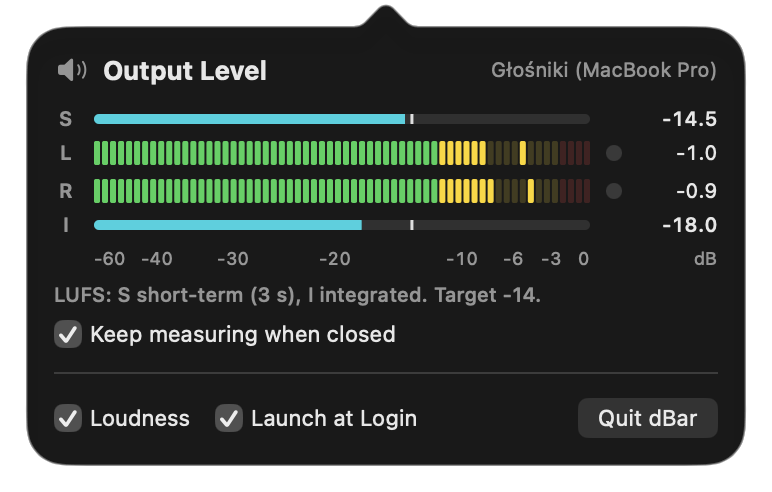
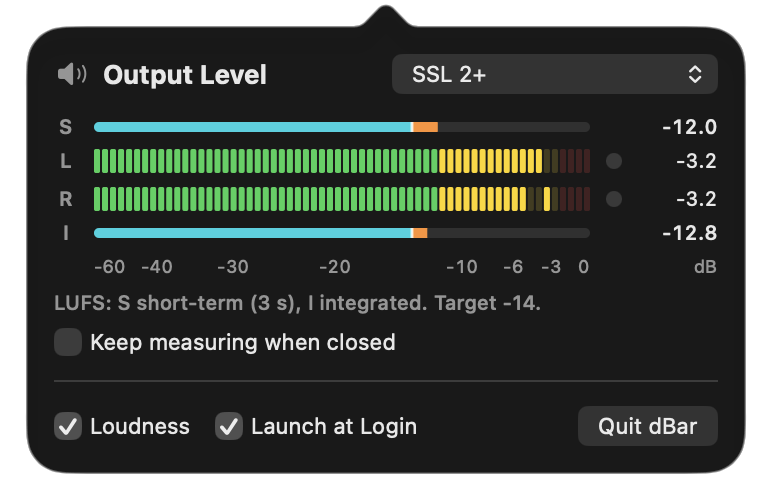
Add a measuring point menu: all apps or one output device
The header menu chooses between the mix of all apps (the default) and
the audio reaching one output device. A device is measured with a
device tap on its first output stream, with nothing excluded, so it
reads the signal after any app or helper that passes it along. On a
device with more than two channels the meter reads the first two. If
the chosen device isn't connected, the meter measures all apps and
says so.

Verified with a -20 dBFS tone played through ForceStereo to a
4-channel SSL 2+: reads -20.0 with the SSL 2+ chosen. The README
screenshot shows the new menu.

diff --git a/dBar/LevelMeterModel.swift b/dBar/LevelMeterModel.swift
@@ -34,8 +34,26 @@ final class LevelMeterModel {
 
     private(set) var channels = [Channel(), Channel()]
     private(set) var loudness = LoudnessReading()
-    private(set) var outputDeviceName: String?
     private(set) var errorMessage: String?
+
+    struct OutputDevice: Identifiable, Hashable {
+        let uid: String
+        let name: String
+        var id: String { uid }
+    }
+
+    /// Connected output devices the user can measure at.
+    private(set) var outputDevices: [OutputDevice] = []
+    /// UID of the device to measure at, or nil to measure the mix of all apps.
+    private(set) var sourceDeviceUID = UserDefaults.standard.string(forKey: Preferences.sourceDeviceUIDKey)
+    /// Name of the chosen device, kept so it can still be shown while it's disconnected.
+    private(set) var sourceDeviceName = UserDefaults.standard.string(forKey: Preferences.sourceDeviceNameKey)
+
+    /// The chosen device isn't connected, so the meter is measuring all apps instead.
+    var sourceDeviceIsMissing: Bool {
+        guard let sourceDeviceUID else { return false }
+        return !outputDevices.contains { $0.uid == sourceDeviceUID }
+    }
 
     @ObservationIgnored private let tap = SystemAudioTap()
     @ObservationIgnored private var loudnessMeter = LoudnessMeter()
@@ -45,18 +63,45 @@ final class LevelMeterModel {
 
     /// Starts capturing, or carries on if capture kept running while the meter was closed.
     func start() {
-        outputDeviceName = try? AudioObjectID.defaultOutputDevice().readString(kAudioObjectPropertyName)
+        refreshOutputDevices()
         guard timer == nil else { return }
-        do {
-            try tap.start()
-            errorMessage = nil
-        } catch {
-            errorMessage = error.localizedDescription
-            return
-        }
-
+        guard startTap() else { return }
         lastTick = CACurrentMediaTime()
         scheduleTimer()
+    }
+
+    /// Chooses where to measure: at one output device, or nil for the mix of all apps.
+    func selectSource(_ uid: String?) {
+        guard uid != sourceDeviceUID else { return }
+        sourceDeviceUID = uid
+        sourceDeviceName = outputDevices.first { $0.uid == uid }?.name
+        UserDefaults.standard.set(sourceDeviceUID, forKey: Preferences.sourceDeviceUIDKey)
+        UserDefaults.standard.set(sourceDeviceName, forKey: Preferences.sourceDeviceNameKey)
+
+        guard timer != nil || errorMessage != nil else { return }
+        // Readings from the old source don't carry over to the new one.
+        stop()
+        start()
+    }
+
+    private func startTap() -> Bool {
+        do {
+            try tap.start(deviceUID: sourceDeviceIsMissing ? nil : sourceDeviceUID)
+            errorMessage = nil
+            return true
+        } catch {
+            errorMessage = error.localizedDescription
+            return false
+        }
+    }
+
+    private func refreshOutputDevices() {
+        outputDevices = AudioObjectID.outputDevices().compactMap { device in
+            guard let uid = try? device.readString(kAudioDevicePropertyDeviceUID),
+                  let name = try? device.readString(kAudioObjectPropertyName)
+            else { return nil }
+            return OutputDevice(uid: uid, name: name)
+        }
     }
 
     /// While the meter is hidden, refresh just often enough to keep up with the 100 ms

diff --git a/dBar/MeterView.swift b/dBar/MeterView.swift
@@ -18,6 +18,13 @@ struct MeterView: View {
                     .fixedSize(horizontal: false, vertical: true)
             }
 
+            if model.sourceDeviceIsMissing {
+                Text("\(model.sourceDeviceName ?? "The chosen device") isn't connected. Measuring all apps.")
+                    .font(.caption)
+                    .foregroundStyle(.secondary)
+                    .fixedSize(horizontal: false, vertical: true)
+            }
+
             VStack(spacing: 6) {
                 if showsLoudness {
                     LoudnessRow(kind: .shortTerm, value: model.loudness.shortTerm, reset: model.resetPeaks)
@@ -59,15 +66,34 @@ struct MeterView: View {
             Text("Output Level")
                 .font(.headline)
             Spacer(minLength: 12)
-            if let outputDeviceName = model.outputDeviceName {
-                Text(outputDeviceName)
-                    .font(.caption)
-                    .foregroundStyle(.secondary)
-                    .lineLimit(1)
-                    .truncationMode(.middle)
-            }
+            sourcePicker
         }
     }
+
+    /// Where to measure: the mix of all apps, or the audio reaching one output device.
+    private var sourcePicker: some View {
+        let selection = Binding(
+            get: { model.sourceDeviceUID ?? Self.allAppsTag },
+            set: { model.selectSource($0 == Self.allAppsTag ? nil : $0) }
+        )
+        return Picker("Measure", selection: selection) {
+            Text("All apps").tag(Self.allAppsTag)
+            Divider()
+            ForEach(model.outputDevices) { device in
+                Text(device.name).tag(device.uid)
+            }
+            if model.sourceDeviceIsMissing, let uid = model.sourceDeviceUID {
+                Text("\(model.sourceDeviceName ?? "Device") (not connected)").tag(uid)
+            }
+        }
+        .labelsHidden()
+        .pickerStyle(.menu)
+        .controlSize(.small)
+        .fixedSize()
+        .help("What to measure: everything apps play, or the audio reaching one output device, after any apps that pass it along.")
+    }
+
+    private static let allAppsTag = ""
 
     private var footer: some View {
         VStack(alignment: .leading, spacing: 6) {

diff --git a/dBar/SystemAudioTap.swift b/dBar/SystemAudioTap.swift
@@ -17,10 +17,12 @@ final class SystemAudioTap {
 
     var isRunning: Bool { ioProcID != nil }
 
-    func start() throws {
+    /// Measures the mix of every app, or with a `deviceUID` only the audio headed for that
+    /// output device, whichever apps or helpers it passed through on the way.
+    func start(deviceUID: String? = nil) throws {
         guard !isRunning else { return }
         do {
-            let tap = try createTap()
+            let tap = try createTap(deviceUID: deviceUID)
             try createAggregateDevice(tapUID: tap.uid)
             try startIO(sampleRate: tap.sampleRate)
         } catch {
@@ -91,8 +93,16 @@ final class SystemAudioTap {
     }
 
     /// Returns the tap's UID and sample rate.
-    private func createTap() throws -> (uid: String, sampleRate: Double) {
-        let description = CATapDescription(stereoGlobalTapButExcludeProcesses: Self.replayingProcesses())
+    private func createTap(deviceUID: String?) throws -> (uid: String, sampleRate: Double) {
+        let description: CATapDescription
+        if let deviceUID {
+            // Everything playing to the device's first output stream. Nothing is excluded: a
+            // replaying app's output is exactly what reaches the device. The tap has the
+            // stream's channel count, and the meter reads its first two channels.
+            description = CATapDescription(excludingProcesses: [], deviceUID: deviceUID, stream: 0)
+        } else {
+            description = CATapDescription(stereoGlobalTapButExcludeProcesses: Self.replayingProcesses())
+        }
         description.name = "dBar Output Meter"
         description.isPrivate = true
         try AudioHardwareCreateProcessTap(description, &tapID).check("Creating the system audio tap")

diff --git a/dBar/CoreAudioUtils.swift b/dBar/CoreAudioUtils.swift
@@ -27,8 +27,13 @@ extension AudioObjectID {
     static let unknown = AudioObjectID(kAudioObjectUnknown)
     static let system = AudioObjectID(kAudioObjectSystemObject)
 
-    static func defaultOutputDevice() throws -> AudioDeviceID {
-        try system.read(kAudioHardwarePropertyDefaultOutputDevice, defaultValue: AudioDeviceID.unknown)
+    /// Devices that have at least one output stream.
+    static func outputDevices() -> [AudioDeviceID] {
+        let devices = (try? system.readObjectList(kAudioHardwarePropertyDevices)) ?? []
+        return devices.filter { device in
+            let streams = try? device.readObjectList(kAudioDevicePropertyStreams, scope: kAudioObjectPropertyScopeOutput)
+            return streams?.isEmpty == false
+        }
     }
 
     func read<Value: BitwiseCopyable>(_ selector: AudioObjectPropertySelector, defaultValue: Value) throws -> Value {
@@ -40,8 +45,12 @@ extension AudioObjectID {
         return value
     }
 
-    func readObjectList(_ selector: AudioObjectPropertySelector) throws -> [AudioObjectID] {
+    func readObjectList(
+        _ selector: AudioObjectPropertySelector,
+        scope: AudioObjectPropertyScope = kAudioObjectPropertyScopeGlobal
+    ) throws -> [AudioObjectID] {
         var address = Self.address(selector)
+        address.mScope = scope
         var size: UInt32 = 0
         let operation = "Reading audio property \(OSStatus(bitPattern: selector).fourCharDescription)"
         try AudioObjectGetPropertyDataSize(self, &address, 0, nil, &size).check(operation)

diff --git a/dBar/Preferences.swift b/dBar/Preferences.swift
@@ -5,6 +5,8 @@ import Foundation
 enum Preferences {
     static let showsLoudnessKey = "showsLoudness"
     static let measuresInBackgroundKey = "measuresLoudnessInBackground"
+    static let sourceDeviceUIDKey = "sourceDeviceUID"
+    static let sourceDeviceNameKey = "sourceDeviceName"
 
     /// Capture keeps running after the meter closes, so integrated loudness keeps accumulating.
     /// Only applies while loudness is shown.

diff --git a/README.md b/README.md
@@ -10,6 +10,7 @@ Click the dBar icon (two rows of level segments) in the menu bar to open the met
 - **Peak hold**: a single lit segment marks the recent peak and falls back on its own. The number on the right is the highest peak since the last reset, in dB.
 - **Clip indicator**: latches red when a channel reaches 0 dBFS.
 - **Loudness** (optional, turn on with the *Loudness* checkbox): short-term (S, last 3 s) and integrated (I) loudness in LUFS, measured per ITU-R BS.1770, as thin bars above and below the peak bars. A marker shows the −14 LUFS target most streaming services normalize to, and the bar turns orange past it. Tick *Keep measuring when closed* to let integrated loudness keep adding up after you close the meter; macOS then shows its recording indicator until you quit dBar or turn the option off.
+- **Measuring point**: the menu in the panel's header chooses what to measure. *All apps* is the mix of everything apps play. Choosing an output device measures the audio reaching that device instead, after any app that passes it along, such as a per-app volume mixer or a virtual device's helper. On a device with more than two channels, the meter reads the first two.
 - **Reset**: click any meter row to reset the peaks and clip indicators of both channels and start integrated loudness over.
 - **Launch at Login**: starts dBar when you log in. It uses `SMAppService`, so it appears under System Settings › General › Login Items. Turn it on from the copy of the app you'll keep using, ideally one in `/Applications`.
 
@@ -45,7 +46,8 @@ The build is ad-hoc signed ("Sign to Run Locally"). macOS may ask for permission
 - `SystemAudioTap` creates a global stereo-mixdown process tap (`CATapDescription(stereoGlobalTapButExcludeProcesses:)`) and wraps it in a private aggregate device. The aggregate's IO callback measures per-channel peaks with vDSP.
 - `LevelMeterModel` drains those peaks 60 times a second and applies meter ballistics: instant attack, 24 dB/s release, 1.5 s peak hold.
 - `LoudnessAnalyzer` applies BS.1770 K-weighting on the IO thread and emits 100 ms blocks of power. `LoudnessMeter` turns them into short-term loudness and gated integrated loudness (−70 LUFS absolute gate, −10 LU relative gate). It matches the EBU Tech 3341 reference cases within 0.1 LU.
-- Apps that play other apps' audio back themselves (currently FineTune and the ForceStereo helper) are left out of the tap. Otherwise that audio would be counted twice and read about 6 dB too high.
+- When an output device is chosen, the tap is a device tap (`CATapDescription(excludingProcesses:deviceUID:stream:)`) on the device's first output stream, with nothing excluded.
+- In *All apps* mode, apps that play other apps' audio back themselves (currently FineTune and the ForceStereo helper) are left out of the tap. Otherwise that audio would be counted twice and read about 6 dB too high.
 - Capture runs only while the popover is open, so the app uses no CPU and shows no recording indicator otherwise. The exception is *Keep measuring when closed*: capture then carries on after the popover closes (from the first time you open it), refreshing 10 times a second instead of 60.
 
 The meter shows the digital signal apps send to the output, measured before the system volume control. Changing the volume slider does not move the bars.
